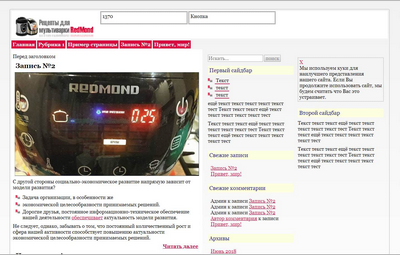
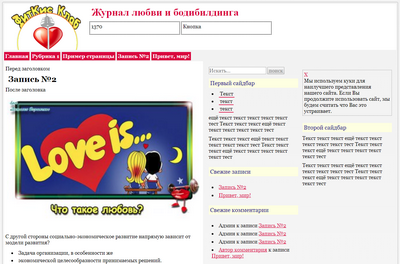
readyToDeployment

diff --git a/style.css b/style.css
@@ -1,5 +1,5 @@
 /*
-Theme Name: wpTheme_recipesForMulticookers
+Theme Name: wpTheme_forFitkiss.club
 Theme URI: 
 Description:  
 Version: 1.0
@@ -19,27 +19,32 @@ Author URI:
 	} 
 /* Хэдер */
 #logo {
-		height: 100px;
 		float:left;	
+		width: 98%;
 	}
 #logo img {
-
 		float: left; 
-		width: 300px; 
-		height: 75px;
+		width: 294px; 
+		height: 160px;
 		border: none;
+		padding: 0px;
+		margin: 0px;
 	}
 .headline {
-	height: 100px;
-	line-height: 100px;
+	font-size: 36px;
+    line-height: 1.1;
+	font-weight: 700;
+	color: Crimson;
+	font-family: "Adamina", serif;
+	margin: 10px;
+	float: left;
 }
 #fullHeader {
 	width: 100%;
 	background-color:#ffffff;
 }
 #header {
-		width: 980px;
-		height: 100px;
+		display: inline;
 		float:left;
 	}
 /* End of Header */
@@ -153,13 +158,9 @@ textarea {width: 95%;}
 	padding: 1px;
 	margin: 1px;
 }
-#npcatch li {
-	list-style-type: none;
-	padding: 1px;
-	margin: 1px;
-}
+
 .sidebar .menu {
-		background: none; 
+	background: none; 
 }
 .sidebar .menu a {
 	background: none; 
@@ -184,16 +185,19 @@ textarea {width: 95%;}
 
 /* ---------------- !!! СМЕНА ЭКРАНА !!! ---------------- */
 
-@media screen and (min-width: 1045px)and (max-width: 1367px) {
+@media screen and (min-width: 1045px) and (max-width: 1367px) {
 	body {
 		width: 1045px;
 	}
+	#logo {
+		display: block;
+		float: left;
+		width: 98%;
+	}
 	#logo img {
-		padding:10px; 
-		width: 300px; 
-		height: 75px;
 		border:none;
 		margin: 0;
+		padding: 0px;
 	}
 	#header {
 		width: 665px;
@@ -204,10 +208,32 @@ textarea {width: 95%;}
 
 /* ---------------- !!! СМЕНА ЭКРАНА !!! ---------------- */
 
-@media screen and (min-width: 701px)and (max-width: 1044px) {
+@media screen and (min-width: 701px) and (max-width: 1044px) {
 	body {
 		width: 700px;
 	}
+	#header {
+		width: 98%;
+	}
+	.headline {
+		width: 98%;
+		display: block;
+		margin: 0 auto;
+		text-align: center;
+	}
+	#logo {
+		display: block;
+		margin: 0 auto;
+		float: none;
+		width: 98%;
+	}
+	
+	#logo img {
+		display: block;
+		margin: 0 auto;
+		float: none;
+	}
+	
 	#content {
 		width: 690px;
 	}
@@ -233,18 +259,20 @@ textarea {width: 95%;}
 	}
 	
 	#logo {
-		height: auto;
+		margin: 0 auto;
+		float: none;
 		padding: 0% 1%;
-		width: 98%;
 		background-repeat: no-repeat;
 		font-size:28px;
 	}
 	
 	#logo img {
 		padding:10px; 
-		float:left; 
-		width: 98%; 
-		height: 75px;
+		display: block;
+		margin: 0 auto;
+		float: none;
+		width: 294px; 
+		height: 160px;
 		border:none;
 	}
 	
@@ -252,8 +280,14 @@ textarea {width: 95%;}
 		height:  auto;
 		padding: 0% 1%;
 		width: 98%;
+		display: block;
+		margin: 0 auto;
 	}
-
+	.headline {
+		float: none;
+		margin: 5px auto;
+		text-align: center;
+	}
 	#toggleMenu {
 		font-size: 28px;	
 		text-align: center;	

diff --git a/header.php b/header.php
@@ -11,15 +11,15 @@
 <body>	
 <div id='fullHeader'>
 	<div id="logo">
-		<a href="<?php echo home_url(); ?>"><img src="<?php bloginfo('template_url'); ?>/images/logo.png" style='padding:10px; float:left;'></a>
-	<div class="headline">Журнал любви и бодибилдинга</div>
+		<a href="<?php echo home_url(); ?>"><img src="<?php bloginfo('template_url'); ?>/images/logo.png" '></a>
+		<div class="headline">Журнал любви и бодибилдинга</div>
+		<div id="header">	
+			<?php if ( is_active_sidebar( 'in_header' ) ) : ?>
+			<?php dynamic_sidebar( 'in_header' ); ?>
+			<?php endif; ?>
+		</div>
 	</div>
-	<div id="header">	
-		<?php if ( is_active_sidebar( 'in_header' ) ) : ?>
-		<?php dynamic_sidebar( 'in_header' ); ?>
-		<?php endif; ?>
-	</div>
-	<div style = 'clear:both;'></div>
+	<div style = "clear:both;"></div>
 </div>
 
 <a id="toggleMenu" onclick="toggle();">&#9776;</a>

diff --git a/README.md b/README.md
@@ -1,1 +1,1 @@
-Адаптация моей темы для WP под нужды сайта рецептов для мультиварок Redmond.
+Адаптация моей темы для WP для сайта Fitkiss.club.
